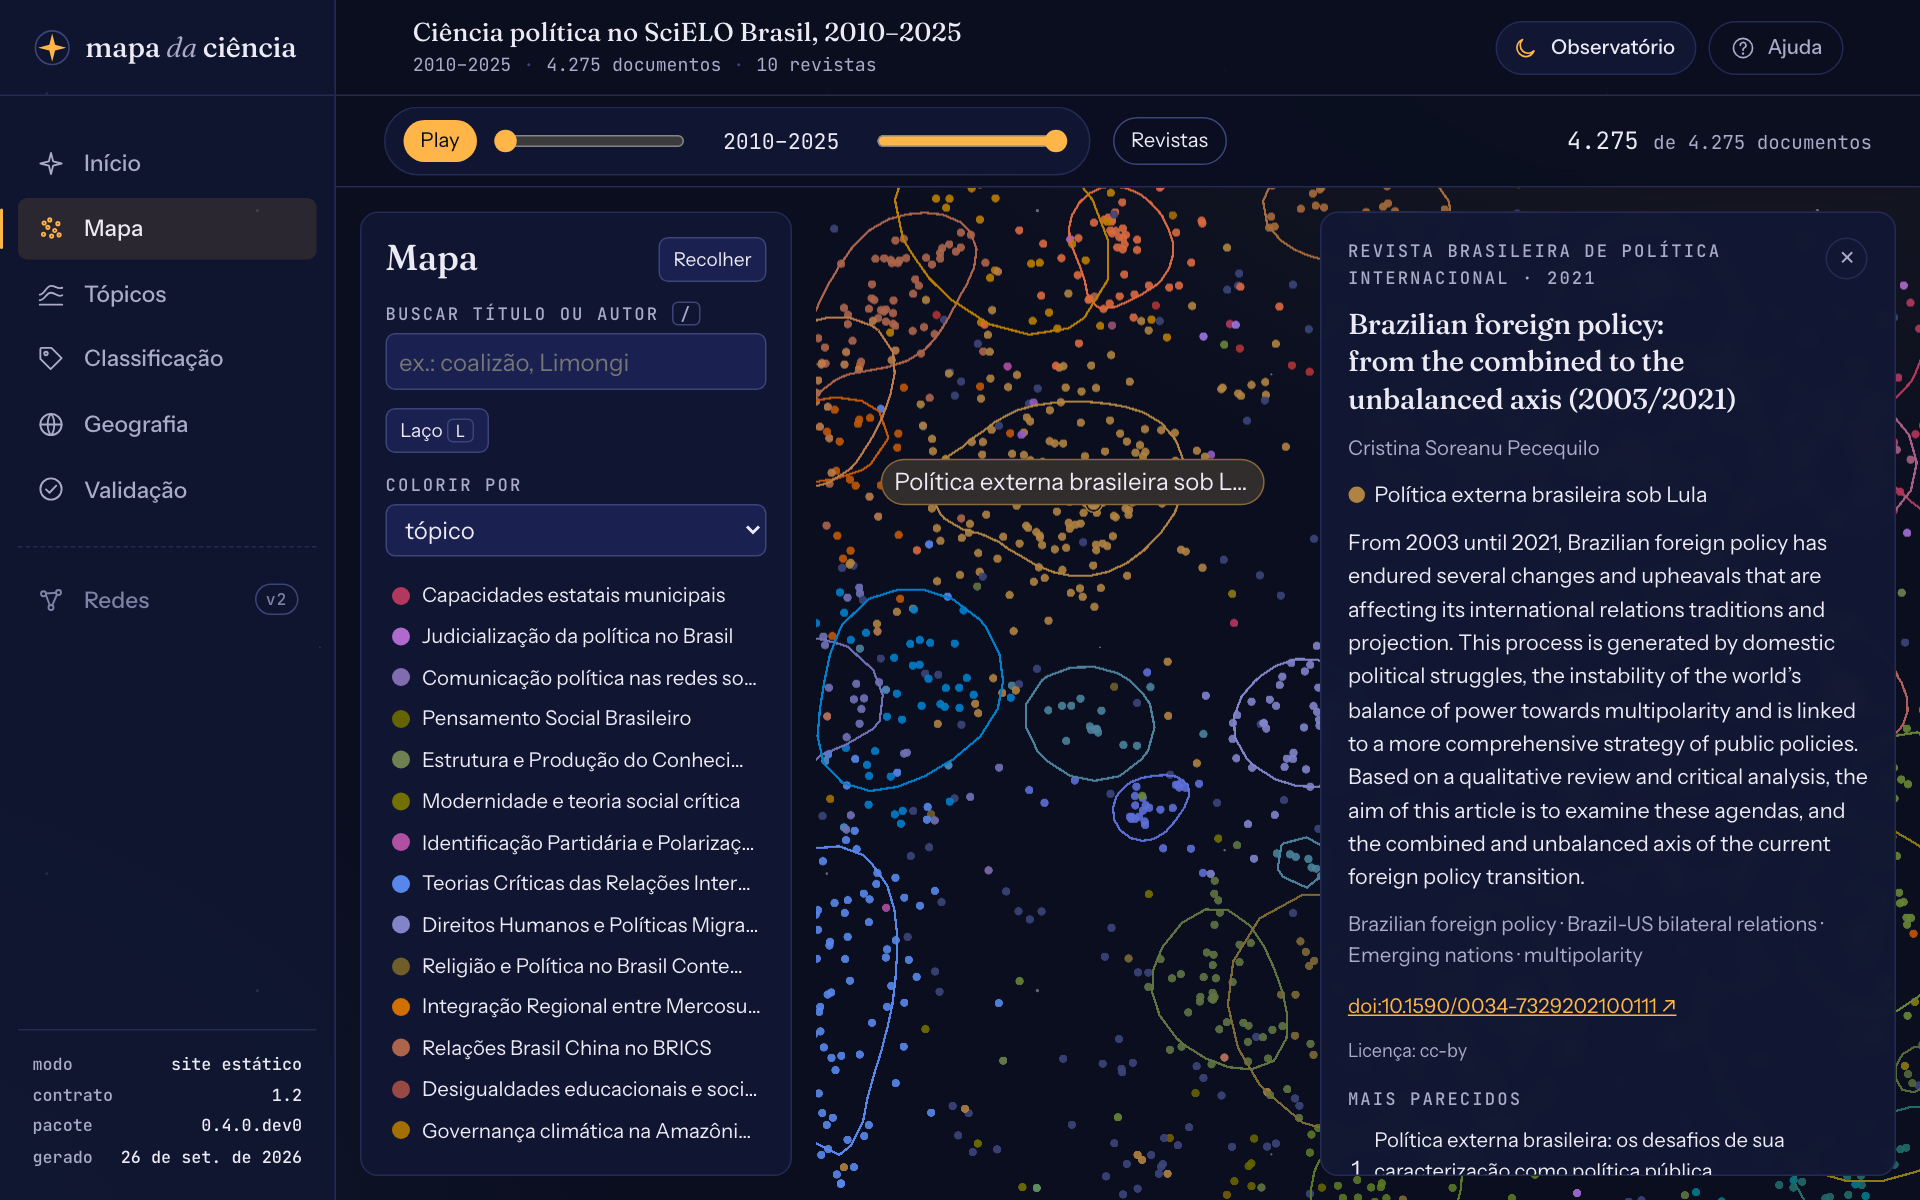
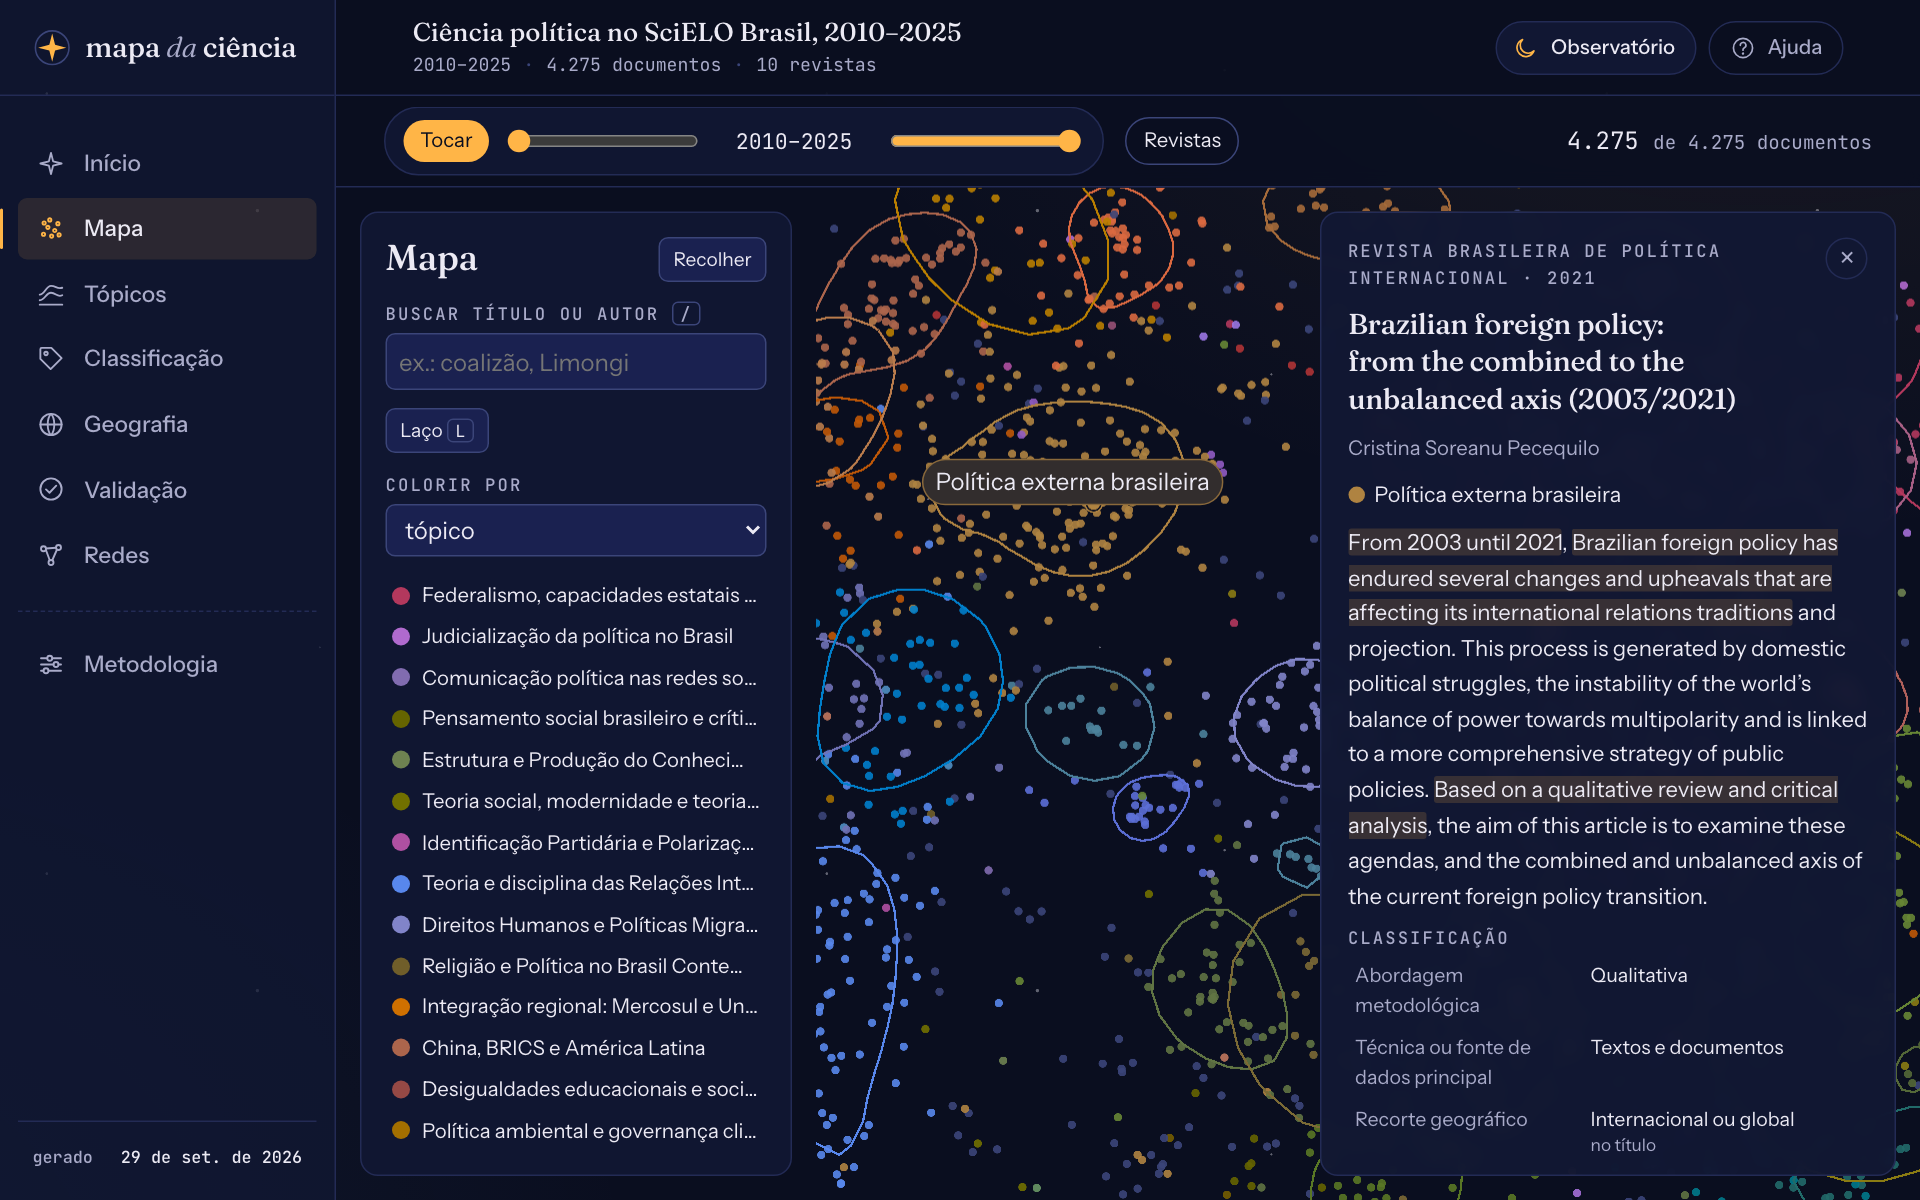
fix(mapa): o cartão do documento não esconde o documento aberto
Numa tela de 1440 px, o cartão cobria cerca de 43% da nuvem, e o documento aberto podia ficar embaixo dele. A
`Nuvem` recebe a área livre (a parte do canvas que o cartão não cobre, à direita ou, no celular, embaixo), e um ponto
em destaque fora dela é levado ao centro dela com `zoomToLocation`, sem mudar o zoom (sem transição com
`prefers-reduced-motion`). A coluna do cartão deixa passar os eventos (`pointer-events: none`, só o cartão os
recebe), e os rótulos só se escondem atrás do cartão, e não da coluna inteira. A captura do cartão foi refeita.

diff --git a/frontend/src/lib/graficos/Nuvem.svelte b/frontend/src/lib/graficos/Nuvem.svelte
@@ -9,10 +9,12 @@
 	import { onMount } from 'svelte';
 	import { rota } from '$lib/estado/url';
 	import type criarGrafico from 'regl-scatterplot';
-	import { escalaLinear } from './escala';
+	import { escalaLinear, type EscalaLinear } from './escala';
 
 	type Grafico = ReturnType<typeof criarGrafico>;
 	type Vista = { x: number; y: number; zoom: number };
+	/** Uma área do canvas, em pixels. */
+	export type Area = { x0: number; y0: number; x1: number; y1: number };
 	export type Camera = { projetar: (x: number, y: number) => [number, number]; zoom: number; largura: number; altura: number };
 	export type Anotacao = { vertices: [number, number][]; cor: string; largura: number };
 
@@ -38,11 +40,14 @@
 		aoMoverCamera: (v: Vista) => void;
 		/** Chamado a cada quadro em que a câmera muda, para camadas sobre o mapa (rótulos). */
 		aoVer?: (camera: Camera) => void;
+		/** A parte do canvas que nenhum painel cobre (o cartão do documento fica por cima do mapa): o ponto em
+		 * destaque que cair fora dela é levado ao centro dela. */
+		areaLivre?: () => Area | null;
 	}
 
 	let {
 		x, y, valores, tipo, cores, visiveis, selecionados, destaque, fundo, corLaco, modoLaco, vista,
-		anotacoes = [], aoClicar, aoLaco, aoMoverCamera, aoVer
+		anotacoes = [], aoClicar, aoLaco, aoMoverCamera, aoVer, areaLivre
 	}: Props = $props();
 
 	// O gráfico atualiza estas escalas a cada movimento: dados (NDC) → pixels do canvas
@@ -247,6 +252,42 @@
 		void selecionados;
 		void destaque;
 		if (pronto) emFila(aplicarSelecao);
+	});
+
+	/** O pixel do canvas convertido de volta em coordenada dos dados, com a câmera de agora. */
+	function dadoNoPixel(e: EscalaLinear, px: number) {
+		const [d0, d1] = e.domain();
+		const [r0, r1] = e.range();
+		return d0 + ((px - r0) / (r1 - r0 || 1)) * (d1 - d0);
+	}
+
+	/** Leva o ponto em destaque ao centro da área livre, sem mudar o zoom, se ele estiver embaixo de um painel. */
+	function mostrarDestaque(i: number) {
+		if (!grafico || destaque !== i) return;
+		const area = areaLivre?.();
+		const pos = grafico.getScreenPosition(i);
+		if (!area || !pos) return;
+		const [px, py] = pos;
+		const folga = 24;
+		if (px >= area.x0 + folga && px <= area.x1 - folga && py >= area.y0 + folga && py <= area.y1 - folga) return;
+		const [cx, cy] = [(area.x0 + area.x1) / 2, (area.y0 + area.y1) / 2];
+		const [tx, ty] = grafico.get('cameraTarget');
+		const alvo: [number, number] = [
+			tx + dadoNoPixel(escalaX, px) - dadoNoPixel(escalaX, cx),
+			ty + dadoNoPixel(escalaY, py) - dadoNoPixel(escalaY, cy)
+		];
+		const reduzido = matchMedia('(prefers-reduced-motion: reduce)').matches;
+		debug().deslocamentos = (debug().deslocamentos ?? 0) + 1;
+		return grafico.zoomToLocation(alvo, grafico.get('cameraDistance'), { transition: !reduzido, transitionDuration: 400 });
+	}
+	// um documento aberto (pelo clique, pela busca ou pelo link) que fica embaixo do cartão é trazido para a vista; o
+	// quadro seguinte espera o cartão ter tamanho
+	let destaqueAnterior: number | null = null;
+	$effect(() => {
+		const i = destaque;
+		if (!pronto || i === destaqueAnterior) return;
+		destaqueAnterior = i;
+		if (i !== null && areaLivre) requestAnimationFrame(() => emFila(() => mostrarDestaque(i)));
 	});
 
 	$effect(() => {

diff --git a/frontend/tests/e2e/mapa.spec.ts b/frontend/tests/e2e/mapa.spec.ts
@@ -240,6 +240,46 @@ test('clicar num ponto abre o cartão dele', async ({ page }) => {
 	await expect(page).toHaveURL(/doc=/);
 });
 
+test('a 1440 px, o documento aberto não fica embaixo do cartão', async ({ page }) => {
+	await page.goto(`${url('RAIZ')}#/mapa`);
+	await esperarMapa(page);
+	// o ponto mais à direita da nuvem: o cartão, aberto, ficaria em cima dele
+	const i = await page.evaluate(() => {
+		const d = window.__mapaDebug!;
+		let melhor = 0;
+		for (let k = 1; k < d.pontos; k += 1) if (d.posicaoNaTela!(k)![0] > d.posicaoNaTela!(melhor)![0]) melhor = k;
+		return melhor;
+	});
+	await page.goto(`${url('RAIZ')}#/mapa?doc=${encodeURIComponent(documentos.colunas.id[i])}`);
+	await esperarMapa(page);
+	const cartao = page.getByTestId('cartao-documento');
+	await expect(cartao).toBeVisible();
+	const canvas = (await page.getByTestId('canvas-mapa').boundingBox())!;
+	await expect
+		.poll(async () => {
+			const c = (await cartao.boundingBox())!;
+			const [x] = (await page.evaluate((k) => window.__mapaDebug!.posicaoNaTela!(k), i))!;
+			return canvas.x + x < c.x - 16;
+		})
+		.toBe(true);
+	expect(await page.evaluate(() => window.__mapaDebug!.deslocamentos)).toBeGreaterThan(0);
+	// e o ponto continua clicável ali: é o canvas, e não o cartão, que está em cima dele
+	const [x, y] = (await page.evaluate((k) => window.__mapaDebug!.posicaoNaTela!(k), i))!;
+	expect(await page.evaluate(([px, py]) => document.elementFromPoint(px, py)?.tagName, [canvas.x + x, canvas.y + y])).toBe('CANVAS');
+});
+
+test('a coluna embaixo de um cartão curto não engole o clique', async ({ page }) => {
+	await page.setViewportSize({ width: 1440, height: 1600 }); // uma janela alta: o cartão não ocupa a coluna inteira
+	const id = documentos.colunas.id[0];
+	await page.goto(`${url('RAIZ')}#/mapa?doc=${encodeURIComponent(id)}`);
+	await esperarMapa(page);
+	const c = (await page.getByTestId('cartao-documento').boundingBox())!;
+	const canvas = (await page.getByTestId('canvas-mapa').boundingBox())!;
+	test.skip(c.y + c.height > canvas.y + canvas.height - 40, 'o cartão deste documento ocupa a coluna inteira');
+	const embaixo = [c.x + c.width / 2, (c.y + c.height + canvas.y + canvas.height) / 2];
+	expect(await page.evaluate(([px, py]) => document.elementFromPoint(px, py)?.tagName, embaixo)).toBe('CANVAS');
+});
+
 // ---- busca, laço, linha do tempo e atalhos
 test('busca com "/" e sem acentos; um resultado abre o cartão', async ({ page }) => {
 	const problemas = vigiar(page);

diff --git a/frontend/src/lib/mapa/VistaMapa.svelte b/frontend/src/lib/mapa/VistaMapa.svelte
@@ -18,7 +18,7 @@
 	import { CORES_POR, normalizarBusca, rota, type CorPor } from '$lib/estado/url';
 	import { formatarInteiro } from '$lib/formato';
 	import { simplificar, type Ponto } from '$lib/graficos/geometria';
-	import Nuvem, { type Anotacao, type Camera } from '$lib/graficos/Nuvem.svelte';
+	import Nuvem, { type Anotacao, type Area, type Camera } from '$lib/graficos/Nuvem.svelte';
 	import Rotulos, { type Caixa, type ItemRotulo } from '$lib/graficos/Rotulos.svelte';
 	import Cartao from './Cartao.svelte';
 	import { calcularContornos, centroDePeso } from './contornos';
@@ -146,6 +146,20 @@
 		});
 	}
 
+	/** A parte da tela do mapa que o cartão do documento não cobre (à direita, ou embaixo no celular). */
+	let lado = $state<HTMLDivElement>();
+	function areaLivre(): Area | null {
+		if (!tela) return null;
+		const base = tela.getBoundingClientRect();
+		const livre = { x0: 0, y0: 0, x1: base.width, y1: base.height };
+		const cartao = lado?.firstElementChild?.getBoundingClientRect();
+		if (cartao?.width) {
+			if (cartao.top - base.top > base.height / 3) livre.y1 = Math.min(livre.y1, cartao.top - base.top);
+			else livre.x1 = Math.min(livre.x1, cartao.left - base.left);
+		}
+		return livre.x1 - livre.x0 > 80 && livre.y1 - livre.y0 > 80 ? livre : null;
+	}
+
 	function repassarRoda(evento: WheelEvent) {
 		evento.preventDefault();
 		tela.querySelector('canvas')?.dispatchEvent(new WheelEvent('wheel', evento));
@@ -228,6 +242,7 @@
 			vista={vistaInicial}
 			{anotacoes}
 			{aoVer}
+			{areaLivre}
 			aoClicar={abrir}
 			{aoLaco}
 			aoMoverCamera={(v) => mudarFiltros({ vista: v }, { substituir: true, em: '/mapa' })}
@@ -314,7 +329,8 @@
 	</p>
 
 	{#if destaque !== null}
-		<div class="lado" data-sobre-o-mapa>
+		<!-- só o cartão está sobre o mapa: a coluna embaixo de um cartão curto deixa passar o clique e a roda -->
+		<div class="lado" bind:this={lado}>
 			<Cartao {tabela} {topicos} indice={destaque} aoFechar={() => abrir(null)} aoAbrir={abrir} />
 		</div>
 	{/if}
@@ -539,10 +555,12 @@
 		width: min(24rem, calc(100% - 2rem));
 		display: flex;
 		flex-direction: column;
+		pointer-events: none;
 	}
 
 	.lado > :global(*) {
 		max-height: 100%;
+		pointer-events: auto;
 	}
 
 	/* em telas largas, o painel aberto fica ao lado do mapa, e não por cima: a nuvem inteira aparece */

diff --git a/frontend/scripts/capturas.ts b/frontend/scripts/capturas.ts
@@ -116,6 +116,7 @@ try {
 		// 3. o cartão do documento, com o zoom sobre o tópico dele (os rótulos passam a ser dos tópicos)
 		await abrir(page, `?doc=${encodeURIComponent(id)}`);
 		await page.getByTestId('cartao-documento').waitFor();
+		await page.waitForTimeout(700); // a câmera desliza se o documento ficou embaixo do cartão
 		const [qx, qy] = (await page.evaluate((i) => window.__mapaDebug!.posicaoNaTela!(i), indice))!;
 		await page.mouse.move(caixa.x + qx, caixa.y + qy);
 		for (let i = 0; i < 3; i += 1) await page.mouse.wheel(0, -300);

diff --git a/frontend/src/app.d.ts b/frontend/src/app.d.ts
@@ -13,6 +13,8 @@ declare global {
 		erro: string | null;
 		/** Posição de um ponto na tela (px, relativa ao canvas), para os testes clicarem nele. */
 		posicaoNaTela?: (i: number) => [number, number] | undefined;
+		/** Quantas vezes a câmera deslizou para tirar o documento aberto de baixo do cartão. */
+		deslocamentos?: number;
 		/** Laços terminados (evento lassoEnd do gráfico). */
 		lacos?: number;
 		/** Zoom atual da câmera (1 = inicial). */

diff --git a/frontend/src/lib/mapa/Cartao.svelte b/frontend/src/lib/mapa/Cartao.svelte
@@ -48,7 +48,7 @@
 	});
 </script>
 
-<article class="cartao" aria-labelledby="titulo-cartao" data-testid="cartao-documento">
+<article class="cartao" aria-labelledby="titulo-cartao" data-testid="cartao-documento" data-sobre-o-mapa>
 	<header>
 		<p class="rotulo-miudo">{revista} · {tabela.ano[indice]}</p>
 		<button class="fechar" type="button" aria-label="Fechar o cartão" onclick={aoFechar}>×</button>

diff --git a/CHANGELOG.md b/CHANGELOG.md
@@ -19,6 +19,7 @@ Todas as mudanças relevantes do projeto ficam registradas aqui. O formato segue
 - **Nas redes, o Esc solta a comunidade depois de fechar um cartão aberto pelo link.** O cartão aberto pelo link mandava o foco para a busca ao fechar, e o Esc seguinte ficava com o campo de texto. Agora o foco vai para o grafo, e o segundo Esc solta a comunidade; na busca, o Esc limpa o texto e, com o campo vazio, solta a comunidade.
 - **O painel "Exportar" de uma figura não passa mais da borda dela.** Ele nascia alinhado ao botão e, numa figura estreita (a colaboração ao lado do grafo, nas redes), passava da borda da figura e, perto de 1100 px ou em tela cheia, da janela. Agora ele recua para caber, em todas as figuras.
 - **Nas redes, fechar o cartão lendo a colaboração não a tira da tela.** Com o cartão aberto, a colaboração desce para baixo do grafo; ao fechá-lo, ela voltava para o lado do grafo e saía da janela de quem a lia. Agora a rolagem acompanha a mudança, e ela fica onde estava.
+- **No Mapa, o cartão do documento não esconde mais o documento aberto.** Numa tela de 1440 px, o cartão cobria cerca de 43% da nuvem, e o documento aberto (pelo clique, pela busca ou por um link) podia ficar embaixo dele. Agora o mapa desliza até deixá-lo à vista, sem mudar o zoom. A coluna vazia embaixo de um cartão curto também deixa de engolir o clique, o arrasto e a roda do mouse, e os rótulos dos tópicos só se escondem atrás do próprio cartão.
 
 ## [2.1.1] - 2026-09-29
 

diff --git a/docs/guias/ler-o-mapa.md b/docs/guias/ler-o-mapa.md
@@ -55,7 +55,7 @@ O recorte vai junto quando você passa para Tópicos ou Geografia pelo trilho: u
   <figcaption>O cartão de um artigo: resumo, palavras-chave, DOI, licença e os cinco documentos mais parecidos. Com o zoom aproximado, os rótulos passam a ser dos tópicos.</figcaption>
 </figure>
 
-Clique num ponto para abrir o cartão, com a revista, o ano, os autores, o resumo, as palavras-chave, o DOI e os cinco documentos mais parecidos (clique num deles para abri-lo). O cartão também diz como o documento chegou ao tópico:
+Clique num ponto para abrir o cartão, com a revista, o ano, os autores, o resumo, as palavras-chave, o DOI e os cinco documentos mais parecidos (clique num deles para abri-lo). Se o documento aberto ficaria embaixo do cartão, o mapa desliza até deixá-lo à vista, sem mudar o zoom. O cartão também diz como o documento chegou ao tópico:
 
 - **pela vizinhança**: o agrupamento deixou o documento de fora, mas a maioria dos seus vizinhos está naquele tópico;
 - **sem tópico**: nem o agrupamento nem a vizinhança o colocaram num tópico;

diff --git a/docs/desenvolvimento/revisao-2026-09.md b/docs/desenvolvimento/revisao-2026-09.md
@@ -165,7 +165,8 @@ Ficaram para depois, registrados (a 2.2.0 os corrigiu, um por commit, na branch 
 
 - a cor dos nós por comunidade (hoje é a do macrotema, e várias comunidades dividem a mesma cor) (**corrigido na
   2.2.0**: cada comunidade tem um tom próprio do macrotema dela);
-- o cartão do documento, que cobre parte do mapa numa tela de 1440 px;
+- o cartão do documento, que cobre parte do mapa numa tela de 1440 px (**corrigido na 2.2.0**: o mapa desliza até
+  o documento aberto ficar à vista);
 - o kappa de uma pessoa, que conta fichas ainda não confirmadas (**corrigido na 2.2.0**: a confirmação fica
   guardada, e só fichas confirmadas entram nas métricas);
 - o editor do codebook, que acrescenta listas vazias ao YAML (**corrigido na 2.2.0**: os valores vazios não entram
